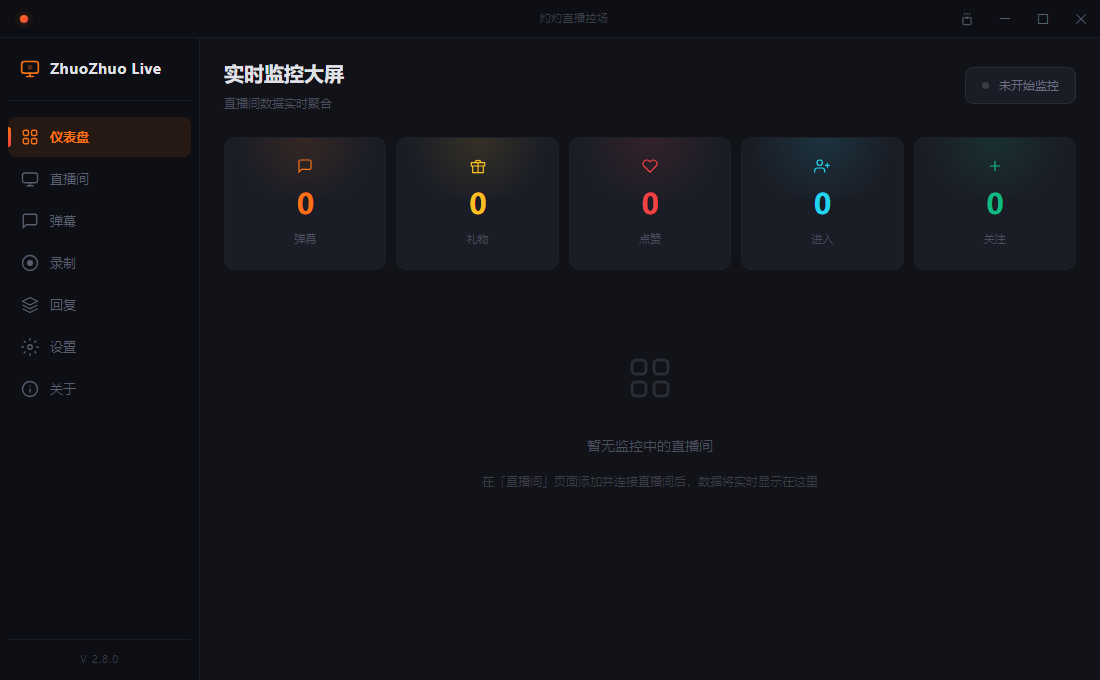
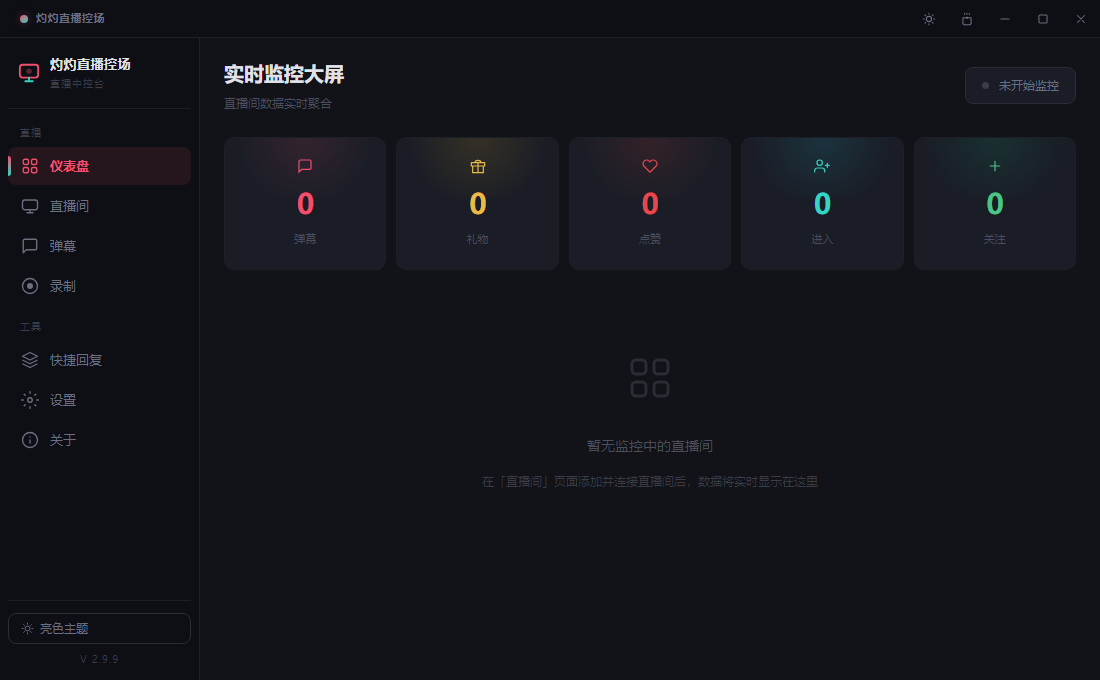
v2.9.9: 快捷回复 chip 优化 + 拖拽换位修复 + 配色统一
- 移除快捷回复 chip 复制按钮（无意义）；chip 加 min-width:0 修复长句换行，max-width 180px 更紧凑
- 发送模式 chip 长按拖拽排序（仿手机桌面图标）；修复换位 bug：目标计算排除被拖 chip 自己 + store 越界时插末尾
- 顺带修复历史直播间 chip 拖拽同源 bug
- 清理 5 处旧橙色残留（hover/阴影/滚动条/暂停光晕）→ 粉系主色
- 6 张 README 截图全部重截为 v2.9.9 新 UI（暗色主题 + 粉色主色）
- 新增 scripts/capture-screenshots.cjs：自动化截图工具（HTTP 静态服务 + offscreen capturePage）

diff --git a/src/views/QuickReplyView.vue b/src/views/QuickReplyView.vue
@@ -118,16 +118,22 @@
                   </div>
                   <transition name="qr-grow">
                   <div v-if="g.expanded" class="qr-g-body">
-                    <!-- 发送模式：chip 内嵌复制按钮（紧凑、参考「鸽子神 ×」样式） -->
+                    <!-- 发送模式：点击 chip 发送，长按拖拽排序（像手机桌面图标） -->
                     <div v-if="g._tab === 'send'">
                       <div class="qr-chips" v-if="g.items.filter(t=>t.trim()).length">
-<span v-for="(qr, qi) in g.items.filter((t:string)=>t.trim())" :key="qi" class="qr-chip">
-                            <span class="qr-chip-text" @click="quickSend(inst.id, qr)">{{ qr }}</span>
-                            <button class="qr-chip-act" :class="{ ok: copiedText === qr }" @click.stop="copyText(qr)" :title="copiedText === qr ? '已复制' : '复制短语'">
-                              <svg v-if="copiedText !== qr" class="qr-chip-icon" viewBox="0 0 24 24" fill="none" width="11" height="11"><rect x="9" y="9" width="11" height="11" rx="2" stroke="currentColor" stroke-width="2"/><path d="M5 15V5a2 2 0 012-2h10" stroke="currentColor" stroke-width="2" stroke-linecap="round"/></svg>
-                              <svg v-else class="qr-chip-icon" viewBox="0 0 24 24" fill="none" width="11" height="11"><polyline points="20 6 9 17 4 12" stroke="currentColor" stroke-width="2.5" stroke-linecap="round" stroke-linejoin="round"/></svg>
-                            </button>
+                        <template v-for="(raw, rawIdx) in g.items" :key="rawIdx">
+                          <span v-if="raw.trim()" class="qr-chip"
+                            :class="{ dragging: qrDrag.active && qrDrag.idx === rawIdx }"
+                            :data-g="gi"
+                            :style="qrDrag.active && qrDrag.idx === rawIdx ? { transform: `translate(${qrDrag.x}px, ${qrDrag.y}px) scale(1.05)`, zIndex: 20 } : {}"
+                            @pointerdown="qrChipDown($event, inst.id, gi, rawIdx)"
+                            @pointermove="qrChipMove($event, gi)"
+                            @pointerup="qrChipUp()"
+                            @pointercancel="qrChipUp()"
+                            @click="qrChipClick(inst.id, raw)">
+                            <span class="qr-chip-text">{{ raw }}</span>
                           </span>
+                        </template>
                       </div>
                       <div v-else class="qr-g-empty">暂无短语，点「编辑」添加</div>
                     </div>
@@ -138,7 +144,7 @@
                           <input :value="g.items[qi]"
                             @input="store.setQuickReply(inst.id, gi, qi, ($event.target as HTMLInputElement).value)"
                             class="qr-chip-input" placeholder="内容..." />
-                          <button class="qr-chip-act qr-chip-del" @click="store.removeQuickReply(inst.id, gi, qi)" title="删除">×</button>
+                          <button class="qr-chip-del" @click="store.removeQuickReply(inst.id, gi, qi)" title="删除">×</button>
                         </span>
                       </div>
                       <button class="qr-g-add" @click="store.addQuickReply(inst.id, gi)">+ 添加短语</button>
@@ -267,11 +273,12 @@ function chipMove(e: PointerEvent, idx: number) {
   // 长按后跟随移动：chip 位移 = 指针位移（相对按下点，避免 rect 漂移）
   dragPos.x = e.clientX - startPos.x
   dragPos.y = e.clientY - startPos.y
-  // 计算目标位置：只统计当前实例卡片内的 chips
+  // 计算目标位置：只统计当前实例卡片内的 chips（排除自己，否则自己跟随指针会永远盖住目标）
   const card = (e.currentTarget as HTMLElement).closest('.qr-phone')
   const chips = card ? Array.from(card.querySelectorAll('.qr-history-chip')) : []
   let target = idx
   chips.forEach((c, i) => {
+    if (i === idx) return
     const r = c.getBoundingClientRect()
     if (e.clientX >= r.left && e.clientX <= r.right && e.clientY >= r.top && e.clientY <= r.bottom) {
       target = i
@@ -300,17 +307,79 @@ function chipClick(inst: any, url: string) {
   fillHistory(inst, url)
 }
 
-// 复制快捷短语
-const copiedText = ref('')
-let copyTimer: any = null
-async function copyText(text: string) {
-  try {
-    await navigator.clipboard.writeText(text)
-    copiedText.value = text
-    clearTimeout(copyTimer)
-    copyTimer = setTimeout(() => { copiedText.value = '' }, 1500)
-  } catch {}
+// ==== 快捷回复 chip 长按拖拽排序（发送模式下，仿手机桌面图标） ====
+// qrDrag.idx = items 原始索引（模板里 rawIdx 对应）；visIdx = 可见顺序索引（排除自己）；toIdx = 目标可见顺序索引
+const qrDrag = reactive({ active: false, longPress: false, instId: 0, gIdx: 0, idx: -1, visIdx: -1, toIdx: -1, x: 0, y: 0, sx: 0, sy: 0 })
+let qrDragTimer: any = null
+let qrSuppressClick = false
+
+function qrChipDown(e: PointerEvent, instId: number, gIdx: number, idx: number) {
+  qrDrag.active = true
+  qrDrag.longPress = false
+  qrDrag.instId = instId
+  qrDrag.gIdx = gIdx
+  qrDrag.idx = idx
+  qrDrag.toIdx = idx
+  qrDrag.x = 0
+  qrDrag.y = 0
+  qrDrag.sx = e.clientX
+  qrDrag.sy = e.clientY
+  // 记录被拖 chip 的可见顺序索引（跳过空项），目标计算时排除自己
+  const card = (e.currentTarget as HTMLElement).closest('.qr-phone')
+  const chips = card ? Array.from(card.querySelectorAll('.qr-chip[data-g="' + gIdx + '"]')) : []
+  qrDrag.visIdx = chips.indexOf(e.currentTarget as HTMLElement)
+  clearTimeout(qrDragTimer)
+  qrDragTimer = setTimeout(() => { qrDrag.longPress = true }, 300)
 }
+
+function qrChipMove(e: PointerEvent, gIdx: number) {
+  if (!qrDrag.active || qrDrag.idx < 0 || qrDrag.gIdx !== gIdx) return
+  // 未长按前快速移动则取消（视为普通点击）
+  if (!qrDrag.longPress) {
+    if (Math.abs(e.clientX - qrDrag.sx) > 6 || Math.abs(e.clientY - qrDrag.sy) > 6) {
+      clearTimeout(qrDragTimer)
+      qrDrag.active = false
+      qrDrag.idx = -1
+    }
+    return
+  }
+  // 长按后跟随移动：chip 位移 = 指针位移（相对按下点）
+  qrDrag.x = e.clientX - qrDrag.sx
+  qrDrag.y = e.clientY - qrDrag.sy
+  // 目标位置 = 指针落在的可见 chip（排除自己：自己跟随指针移动会一直盖住指针）
+  const card = (e.currentTarget as HTMLElement).closest('.qr-phone')
+  const chips = card ? Array.from(card.querySelectorAll('.qr-chip[data-g="' + gIdx + '"]')) : []
+  let target = qrDrag.toIdx
+  chips.forEach((c, i) => {
+    if (i === qrDrag.visIdx) return
+    const r = c.getBoundingClientRect()
+    if (e.clientX >= r.left && e.clientX <= r.right && e.clientY >= r.top && e.clientY <= r.bottom) {
+      target = i
+    }
+  })
+  qrDrag.toIdx = target
+}
+
+function qrChipUp() {
+  clearTimeout(qrDragTimer)
+  if (qrDrag.active && qrDrag.longPress) {
+    if (qrDrag.toIdx >= 0 && qrDrag.toIdx !== qrDrag.idx) {
+      store.moveQuickReply(qrDrag.instId, qrDrag.gIdx, qrDrag.idx, qrDrag.toIdx)
+    }
+    qrSuppressClick = true
+  }
+  qrDrag.active = false
+  qrDrag.longPress = false
+  qrDrag.idx = -1
+  qrDrag.x = 0
+  qrDrag.y = 0
+}
+
+function qrChipClick(instId: number, text: string) {
+  if (qrSuppressClick) { qrSuppressClick = false; return }
+  quickSend(instId, text)
+}
+
 function closeWebview(inst: any) {
   // 假关闭：保留 webview（保登录态），静音 + 隐藏，重开秒显示
   const w = wvRefs.value[inst.id]
@@ -649,7 +718,7 @@ function doImport(e: Event) {
 .qr-history-chip:hover { border-color: var(--primary); color: var(--primary-hover); }
 .qr-history-chip.dragging {
   border-color: var(--primary); color: var(--primary-hover); background: #1f2430;
-  box-shadow: 0 4px 14px rgba(249,115,22,0.25);
+  box-shadow: 0 4px 14px rgba(240,80,110,0.3);
   cursor: grabbing; position: relative;
 }
 .qr-url { flex: 1; background: var(--bg-track); border: 1px solid var(--border-strong); border-radius: 8px; padding: 4px 10px; color: var(--text-secondary); font-size: 10px; font-family: inherit; outline: none; min-width: 0; transition: border-color .15s; }
@@ -723,7 +792,7 @@ function doImport(e: Event) {
 .qr-panel::-webkit-scrollbar { width: 8px; }
 .qr-panel::-webkit-scrollbar-track { background: rgba(255,255,255,0.04); border-radius: 4px; }
 .qr-panel::-webkit-scrollbar-thumb { background: var(--primary-border); border-radius: 4px; }
-.qr-panel::-webkit-scrollbar-thumb:hover { background: rgba(249,115,22,0.7); }
+.qr-panel::-webkit-scrollbar-thumb:hover { background: rgba(240,80,110,0.7); }
 .qr-pin-row { font-size: 10px; color: var(--text-muted); display: flex; align-items: center; gap: 4px; flex-wrap: wrap; flex-shrink: 0; padding: 1px 2px; }
 .qr-pin { background: var(--success-soft); border: 1px solid var(--success-border); color: var(--success); font-size: 9px; padding: 1px 6px; border-radius: 5px; cursor: pointer; font-family: inherit; }
 .qr-pin:hover { background: var(--success-soft); }
@@ -738,7 +807,7 @@ function doImport(e: Event) {
 .qr-groups::-webkit-scrollbar { width: 8px; }
 .qr-groups::-webkit-scrollbar-track { background: rgba(255,255,255,0.04); border-radius: 4px; }
 .qr-groups::-webkit-scrollbar-thumb { background: var(--primary-border); border-radius: 4px; }
-.qr-groups::-webkit-scrollbar-thumb:hover { background: rgba(249,115,22,0.7); }
+.qr-groups::-webkit-scrollbar-thumb:hover { background: rgba(240,80,110,0.7); }
 .qr-g-hd { display: flex; align-items: center; justify-content: space-between; padding: 5px 9px; background: var(--bg-elevated); font-size: 10px; color: var(--text-muted); border-bottom: 1px solid var(--border-default); }
 .qr-g-actions { display: flex; gap: 3px; }
 .qr-g-btn { background: transparent; border: 1px solid var(--border-strong); color: var(--text-muted); font-size: 9px; padding: 2px 7px; border-radius: 5px; cursor: pointer; font-family: inherit; }
@@ -763,7 +832,7 @@ function doImport(e: Event) {
 /* 分组展开/收起过渡 */
 .qr-grow-enter-active, .qr-grow-leave-active { transition: opacity .16s ease, transform .16s ease; }
 .qr-grow-enter-from, .qr-grow-leave-to { opacity: 0; transform: translateY(-4px); }
-/* 紧凑 chip：内嵌文本 + 动作按钮（参考「鸽子神 ×」chip 样式） */
+/* 紧凑 chip：点击发送，长按拖拽排序 */
 .qr-g-btn.on { border-color: var(--success-border); color: var(--success); }
 .qr-g-add { background: transparent; border: 1px dashed var(--border-strong); color: var(--text-muted); font-size: 9px; padding: 1px 6px; border-radius: 3px; cursor: pointer; font-family: inherit; width: fit-content; }
 .qr-g-add:hover { border-color: var(--primary); color: var(--primary); }
@@ -773,29 +842,35 @@ function doImport(e: Event) {
   display: inline-flex; align-items: center; gap: 0;
   background: var(--bg-selected); border: 1px solid var(--primary-soft);
   color: var(--primary-hover); font-size: 10px; padding: 0; border-radius: 10px;
-  max-width: 200px; min-height: 20px; overflow: hidden;
+  max-width: 180px; min-width: 0; min-height: 20px; overflow: hidden;
+  cursor: pointer; user-select: none; -webkit-user-select: none; touch-action: none;
+  transition: border-color .15s, box-shadow .15s;
 }
+.qr-chip:hover { border-color: var(--primary); }
 .qr-chip-text {
-  cursor: pointer; padding: 2px 4px 2px 8px; overflow: hidden; text-overflow: ellipsis;
-  white-space: nowrap; flex: 1; min-width: 0; max-width: 160px;
+  cursor: pointer; padding: 2px 8px; overflow: hidden; text-overflow: ellipsis;
+  white-space: nowrap; flex: 1; min-width: 0;
 }
-.qr-chip-text:hover { color: #fdba74; }
-.qr-chip-act {
-  background: transparent; border: none; color: var(--text-muted); cursor: pointer;
-  padding: 0 4px; line-height: 20px; flex-shrink: 0; opacity: 0;
-  transition: opacity .15s, color .15s;
+.qr-chip-text:hover { color: #ff8ba0; }
+/* 拖拽浮起效果 */
+.qr-chip.dragging {
+  position: relative;
+  border-color: var(--primary); color: var(--primary-hover); background: var(--primary-soft);
+  box-shadow: 0 4px 14px rgba(240, 80, 110, 0.35);
+  cursor: grabbing;
 }
-.qr-chip:hover .qr-chip-act { opacity: 1; }
-.qr-chip-act:hover { color: var(--info); background: var(--info-soft); border-radius: 0 9px 9px 0; }
-.qr-chip-act.ok { opacity: 1; color: var(--success); background: var(--success-soft); border-radius: 0 9px 9px 0; }
 
 /* 编辑模式：chip 同位置变 input + × */
-.qr-chip-editing { background: var(--success-soft); border-color: var(--success-border); }
+.qr-chip-editing { background: var(--success-soft); border-color: var(--success-border); user-select: text; -webkit-user-select: text; touch-action: auto; cursor: default; }
 .qr-chip-input {
   background: var(--bg-track); border: none; padding: 2px 6px; color: var(--text-primary);
   font-size: 10px; font-family: inherit; outline: none; flex: 1; min-width: 0; max-width: 150px;
 }
 .qr-chip-input:focus { background: var(--bg-card); }
+.qr-chip-del {
+  background: transparent; border: none; color: var(--text-muted); cursor: pointer;
+  padding: 0 5px; line-height: 20px; flex-shrink: 0;
+}
 .qr-chip-del:hover { color: var(--danger); background: var(--danger-soft); }
 
 .qr-send { display: flex; gap: 4px; flex-shrink: 0; }

diff --git a/src/stores/quick-reply.ts b/src/stores/quick-reply.ts
@@ -290,6 +290,23 @@ export const useQuickReplyStore = defineStore('quickReply', () => {
     const inst = instances.value.find(i => i.id === id)
     if (inst && inst.quickReplyGroups[gIdx]) { inst.quickReplyGroups[gIdx].items[idx] = text; persist() }
   }
+  /** 快捷回复 chip 拖拽排序：fromRaw = items 原始索引，toVis = 目标可见顺序索引（跳过空项） */
+  function moveQuickReply(id: number, gIdx: number, fromRaw: number, toVis: number) {
+    const inst = instances.value.find(i => i.id === id)
+    if (!inst || !inst.quickReplyGroups[gIdx]) return
+    const items = inst.quickReplyGroups[gIdx].items
+    const vis: number[] = []
+    items.forEach((t, i) => { if (t.trim()) vis.push(i) })
+    const fromVis = vis.indexOf(fromRaw)
+    if (fromVis < 0 || toVis < 0 || toVis >= vis.length || fromVis === toVis) return
+    const [moved] = items.splice(fromRaw, 1)
+    // 移除后重算可见映射（比原来少一项），目标索引越界时插到末尾
+    const vis2: number[] = []
+    items.forEach((t, i) => { if (t.trim()) vis2.push(i) })
+    const insertAt = toVis >= vis2.length ? items.length : vis2[toVis]
+    items.splice(insertAt, 0, moved)
+    persist()
+  }
 
   function addInstance() {
     // 复用最小可用 ID：删掉的实例编号回收（如删了 3/4，下次新建回到 3）
@@ -335,7 +352,7 @@ export const useQuickReplyStore = defineStore('quickReply', () => {
   return {
     instances, sendViaWebview, pinInputSelector, pinSendSelector, clearInputSelector,
     addGroup, removeGroup, toggleGroup, setGroupName,
-    addQuickReply, removeQuickReply, setQuickReply,
+    addQuickReply, removeQuickReply, setQuickReply, moveQuickReply,
     addInstance, removeInstance,
     exportGroup, importGroupAsNew
   }

diff --git a/src/views/DanmuView.vue b/src/views/DanmuView.vue
@@ -393,7 +393,7 @@ async function exportData(format: 'csv' | 'json') {
   backdrop-filter: blur(4px);
 }
 .pause-card { text-align: center; max-width: 360px; padding: 24px; }
-.pause-dot { width: 8px; height: 8px; border-radius: 50%; background: var(--primary); margin: 0 auto 14px; box-shadow: 0 0 12px rgba(249, 115, 22, 0.5); }
+.pause-dot { width: 8px; height: 8px; border-radius: 50%; background: var(--primary); margin: 0 auto 14px; box-shadow: 0 0 12px rgba(240, 80, 110, 0.5); }
 .pause-title { font-size: 15px; font-weight: 600; color: var(--text-primary); margin-bottom: 8px; }
 .pause-desc { font-size: 12px; color: var(--text-muted); line-height: 1.5; margin-bottom: 18px; }
 .pause-actions { display: flex; gap: 8px; justify-content: center; }

diff --git a/src/views/AboutView.vue b/src/views/AboutView.vue
@@ -13,7 +13,7 @@
         </div>
         <div>
           <div class="app-name">灼灼直播控场</div>
-          <div class="app-version">V 2.9.7 — 实时弹幕监听 · 直播录制 · 快捷控场 · 双主题</div>
+          <div class="app-version">V 2.9.9 — 实时弹幕监听 · 直播录制 · 快捷控场 · 双主题</div>
         </div>
       </div>
 

diff --git a/src/components/AppSidebar.vue b/src/components/AppSidebar.vue
@@ -67,7 +67,7 @@ defineEmits<{ navigate: [path: string] }>()
 
 const settingsStore = useSettingsStore()
 const isDark = computed(() => settingsStore.themeMode === 'dark')
-const version = '2.9.7'
+const version = '2.9.9'
 
 const liveNavItems = [
   {

diff --git a/README.md b/README.md
@@ -2,7 +2,7 @@
 
 > 抖音直播间控场桌面工具 — 实时弹幕监听、数据统计、直播录制、快捷回复
 
-[![Release](https://img.shields.io/badge/Release-v2.9.7-blue?logo=github)](https://github.com/coolestgaim/douyin-live-info-master/releases)
+[![Release](https://img.shields.io/badge/Release-v2.9.9-blue?logo=github)](https://github.com/coolestgaim/douyin-live-info-master/releases)
 ![Electron](https://img.shields.io/badge/Electron-33-47848F?logo=electron)
 ![Vue](https://img.shields.io/badge/Vue-3.5-4FC08D?logo=vue.js)
 ![TypeScript](https://img.shields.io/badge/TypeScript-5-3178C6?logo=typescript)
@@ -20,14 +20,14 @@
 | **🔍 弹幕过滤** | 按消息类型和房间筛选，历史弹幕搜索，导出 CSV/JSON |
 | **🎥 直播录制** | 内置 ffmpeg 录制直播流，支持 MP3/MP4/WAV/FLV 格式，支持分段录制 |
 | **📁 录制管理** | 历史录制记录面板，单房间多次录制不覆盖，一键打开文件夹/删除 |
-| **📱 快捷回复** | 手机卡片布局，多分组管理，单区域编辑/发送，Hover 浮出复制按钮 |
+| **📱 快捷回复** | 手机卡片布局，多分组管理，单区域编辑/发送，长按拖拽排序，长句自动省略号截断 |
 | **🪟 弹幕浮窗** | 透明可筛选的悬浮窗，直播时浮在桌面上实时查看弹幕 |
 | **💾 本地存储** | SQLite 本地存储所有弹幕记录，无需联网即可查看历史 |
 | **🌙 暗色主题** | 深色 UI，基于 Naive UI 组件库，护眼设计 |
 
 ---
 
-## 📸 截图（v2.9.7 实拍）
+## 📸 截图（v2.9.9 实拍）
 
 | 仪表盘 | 直播间 |
 | ------------------------------------ | ------------------------------------ |
